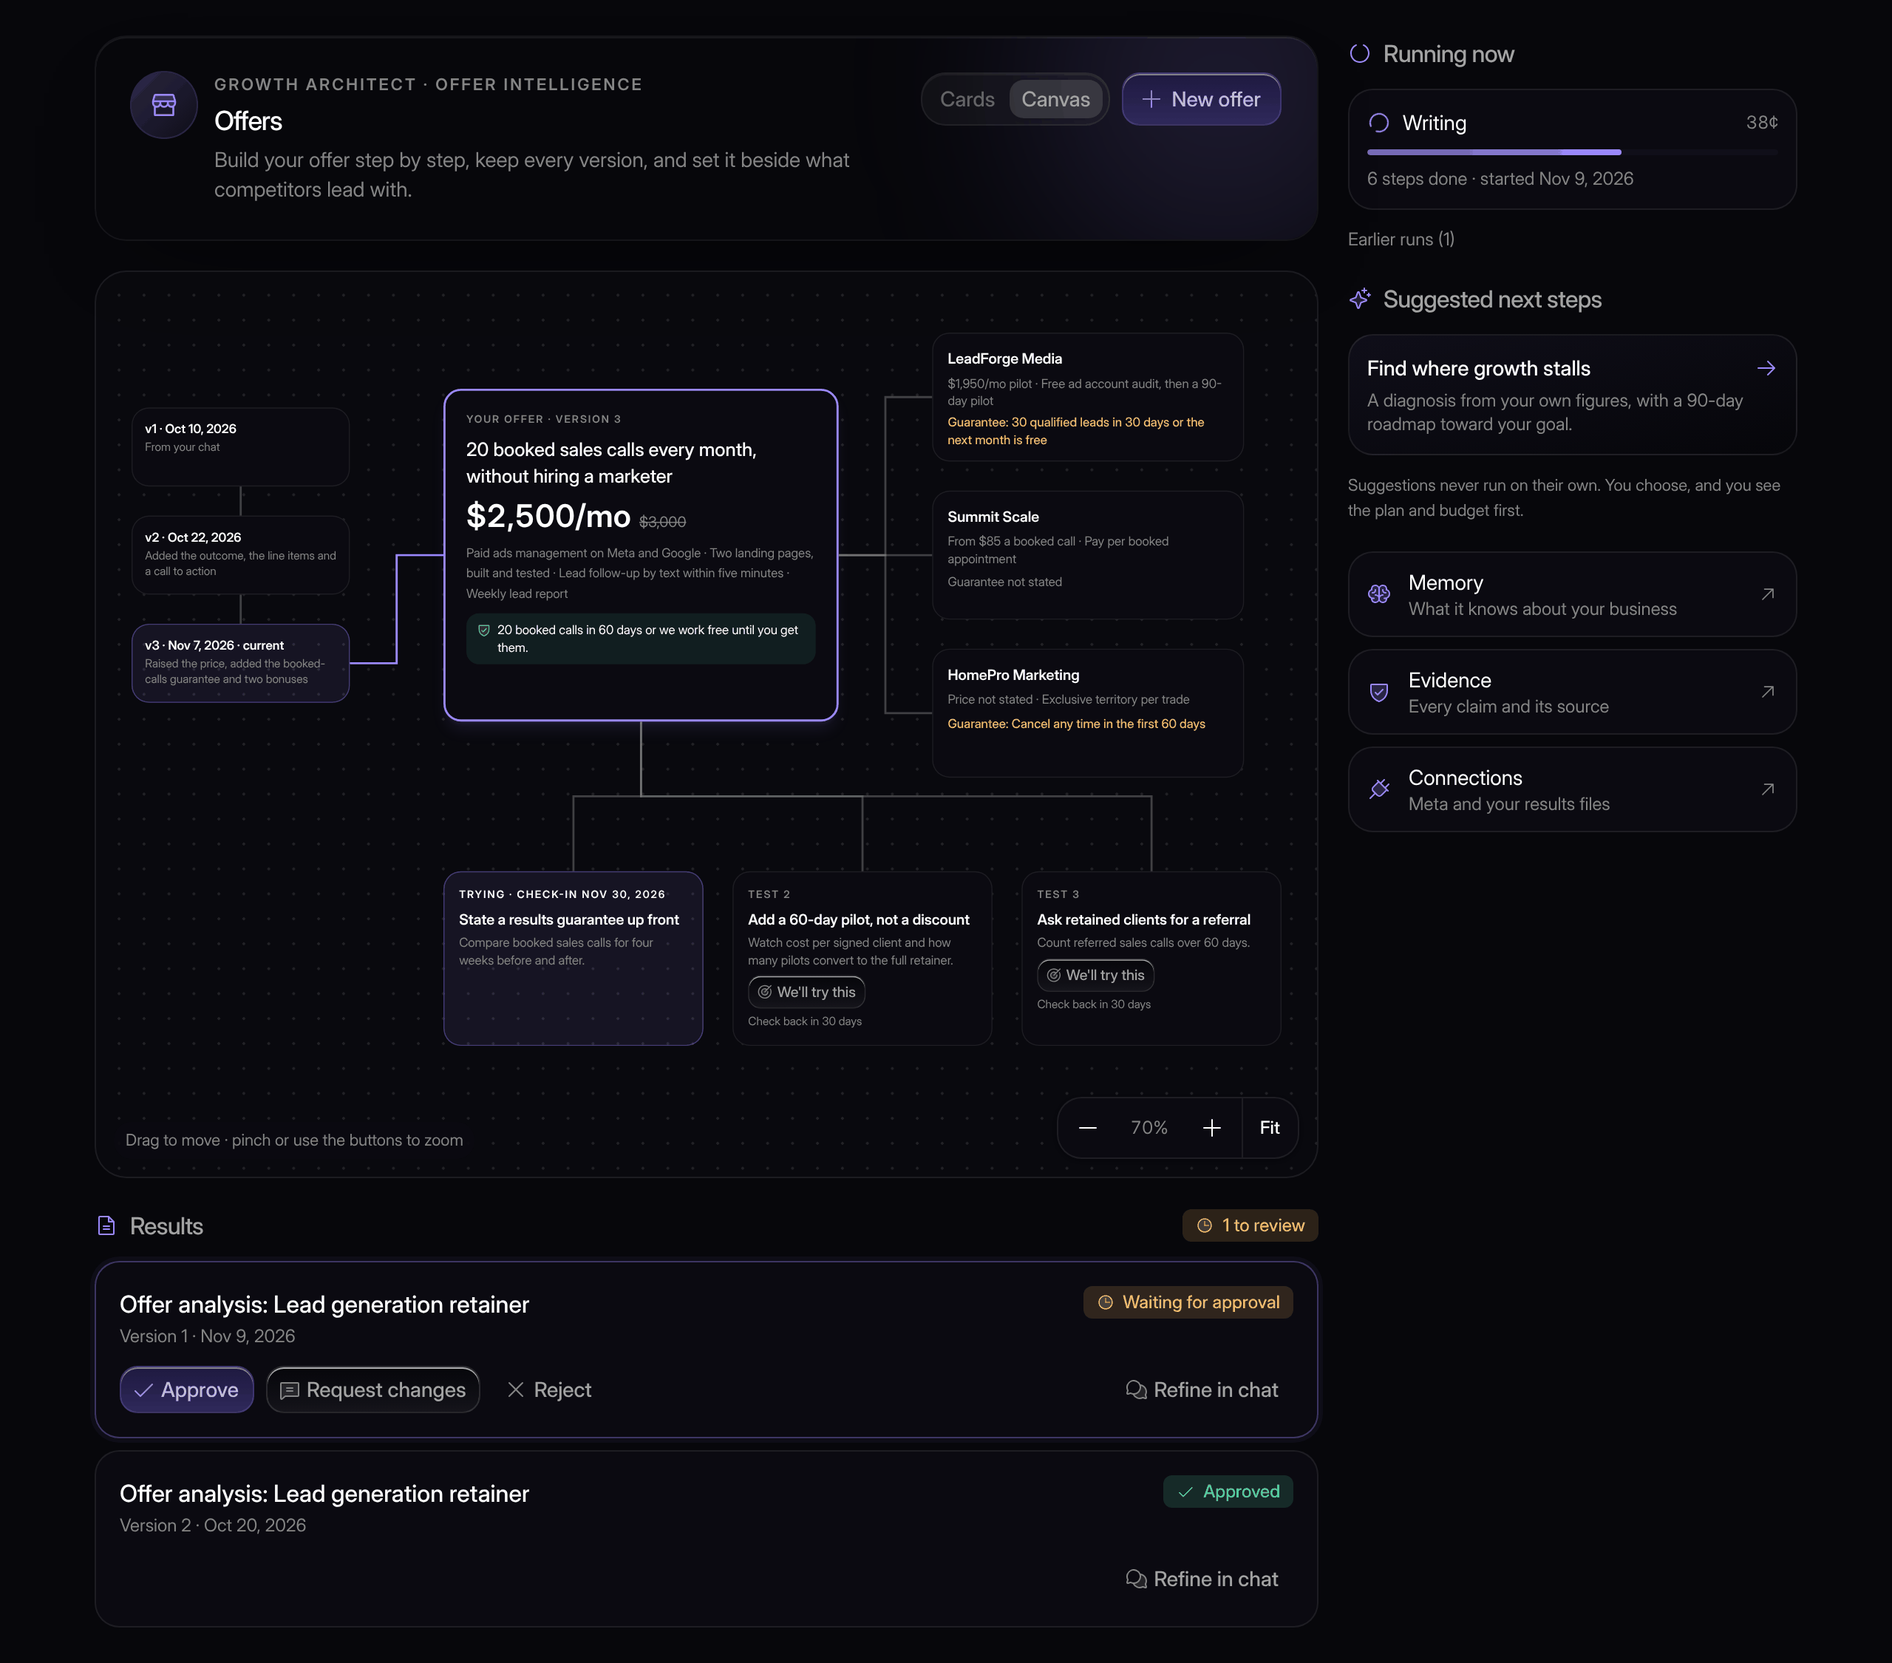
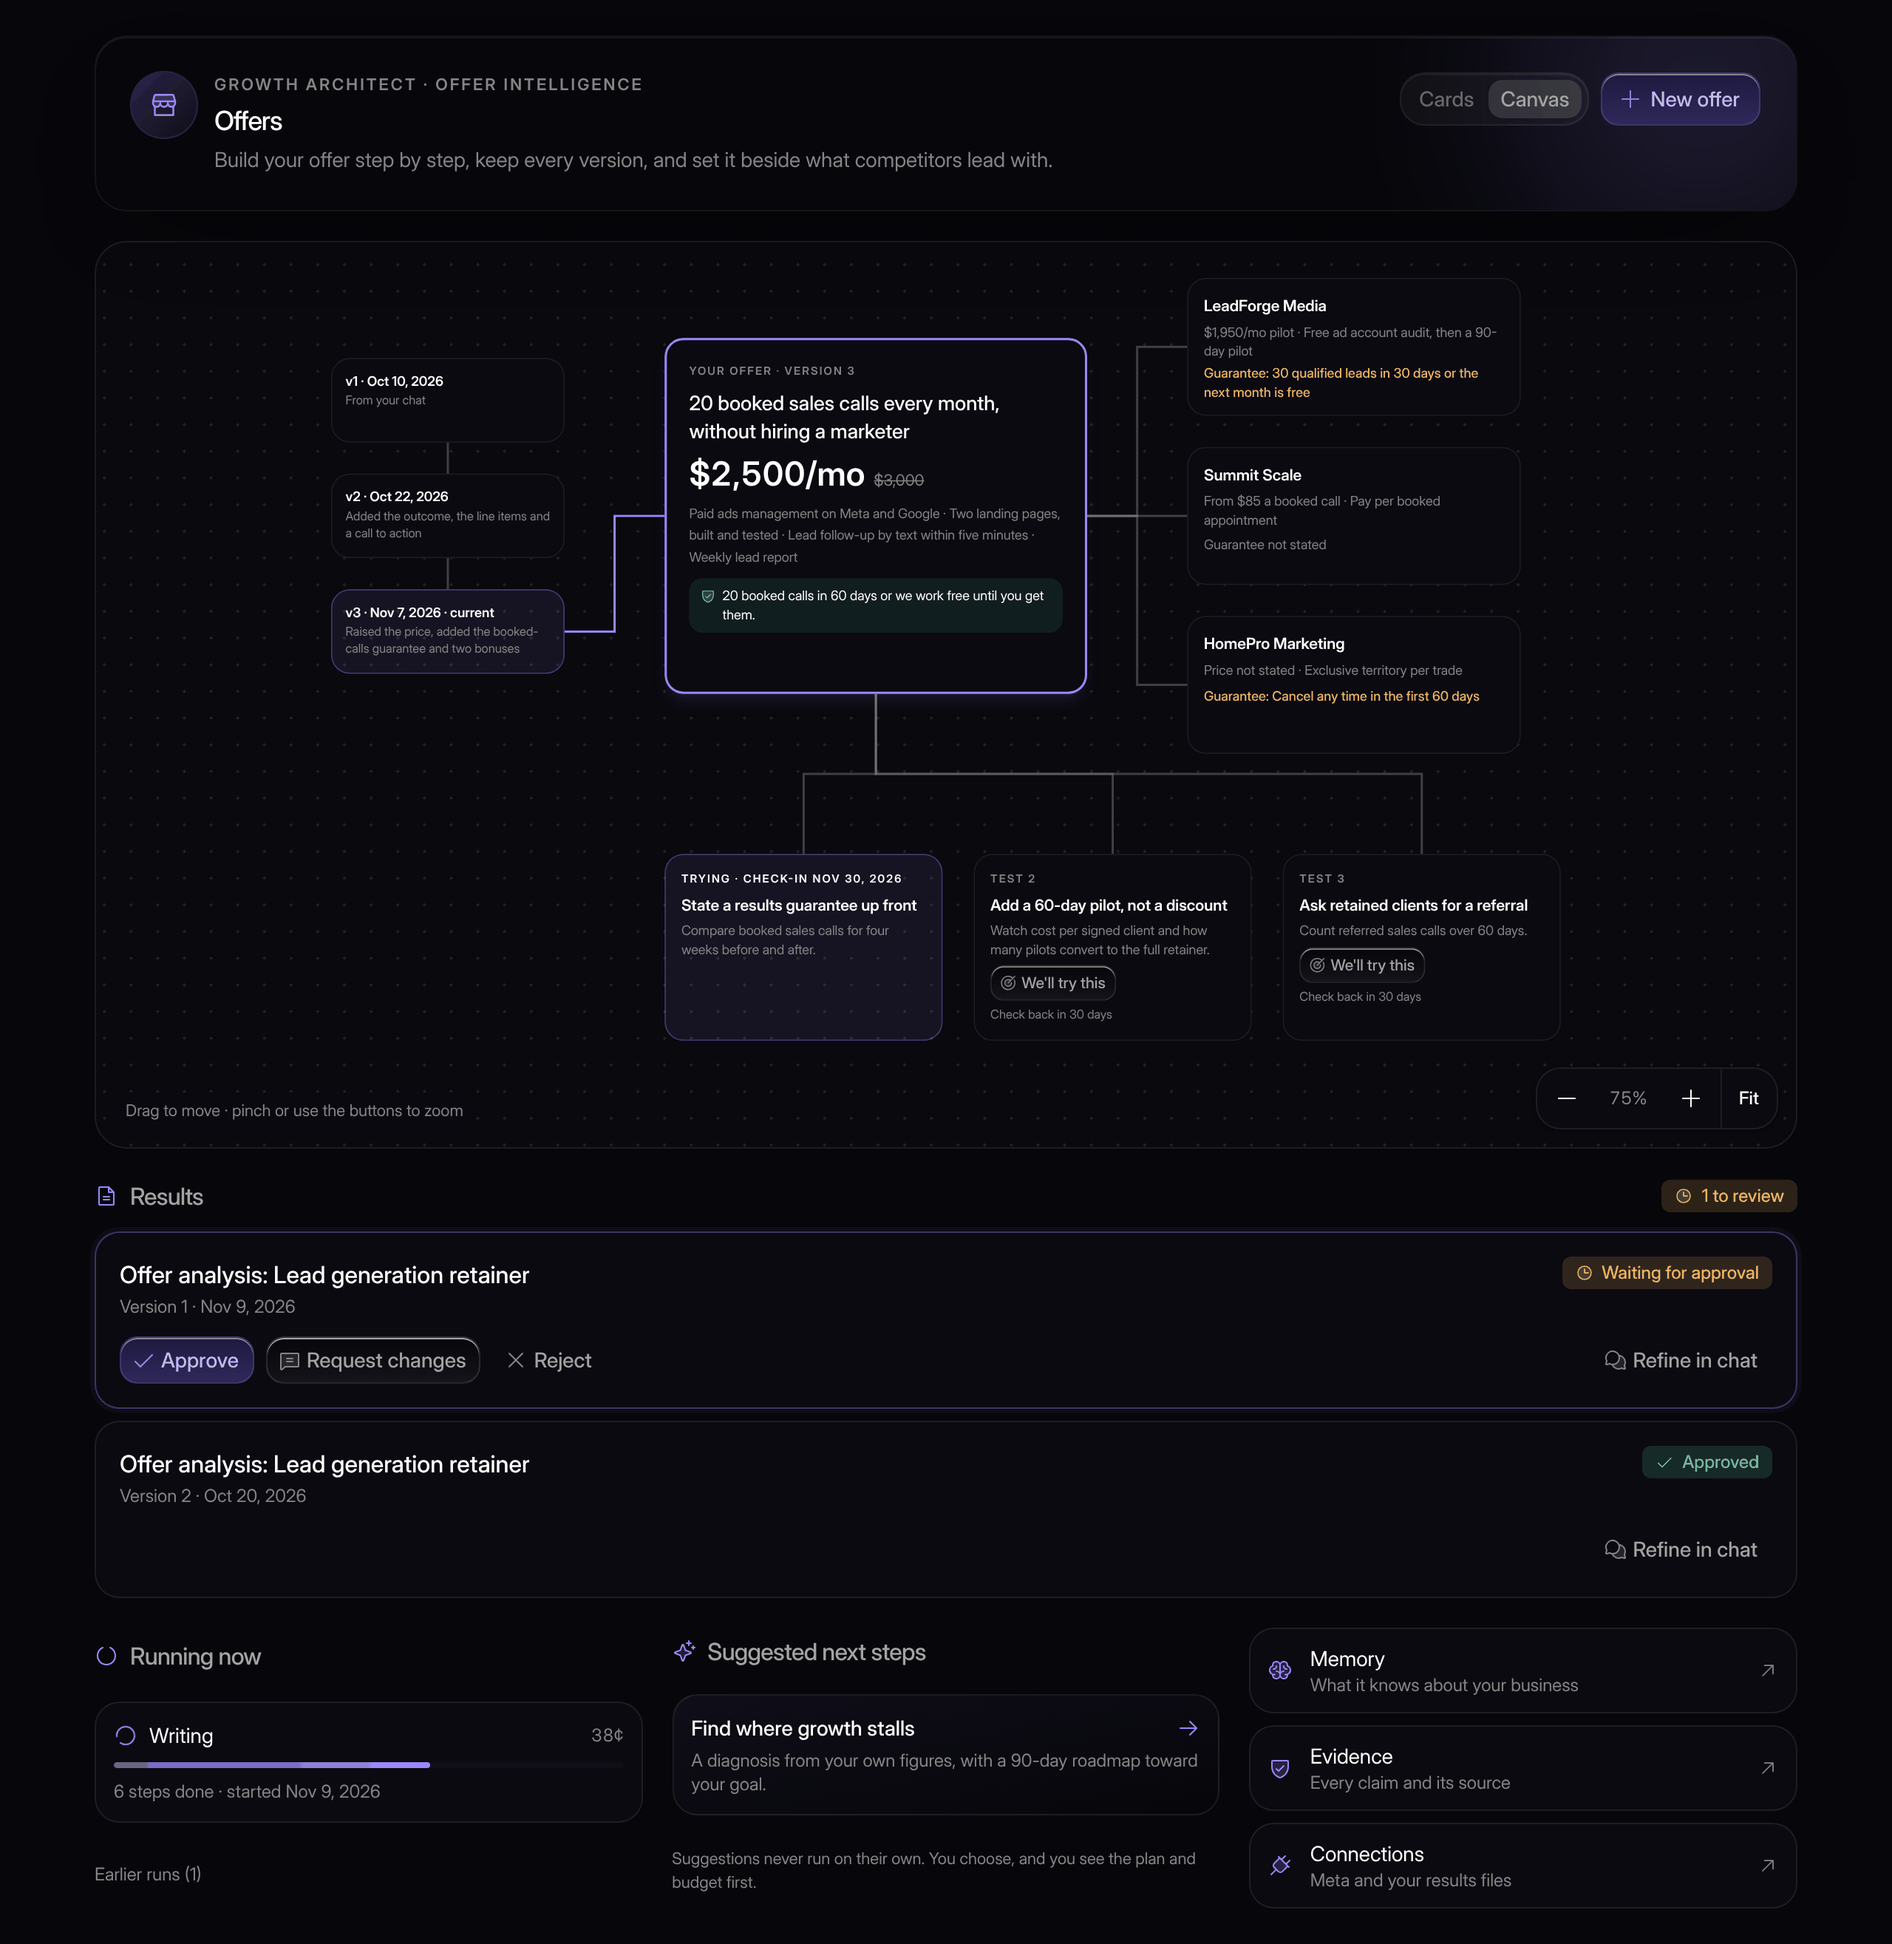
Offers canvas takes the full width
In Canvas view the board spans the page; running jobs, suggestions and
the shared links move underneath, as on Diagnostics.

Claude-Session: https://claude.ai/code/session_01BiDhVKxocb5NjSyLdJBgWr

diff --git a/src/components/work/offers-tab.tsx b/src/components/work/offers-tab.tsx
@@ -351,49 +351,59 @@ export function OffersTabView(props: OffersTabProps) {
   const building = openNew || Boolean(props.initialBuilder);
   // The canvas shows a saved offer; building one always happens in Cards.
   const canvas = view === "canvas" && props.card !== null && !building;
+  const hero = (
+    <WorkHero
+      icon={Store}
+      eyebrow="Growth Architect · Offer Intelligence"
+      title="Offers"
+      promise="Build your offer step by step, keep every version, and set it beside what competitors lead with."
+      action={
+        <>
+          {props.card ? <ViewSwitch view={view} onChange={setView} /> : null}
+          {editor ? (
+            <Button
+              onClick={() => {
+                setOpenNew(true);
+                setBuilderKey((value) => value + 1);
+              }}
+            >
+              <Plus aria-hidden className="size-4" /> New offer
+            </Button>
+          ) : null}
+        </>
+      }
+    />
+  );
+  const results = <ResultsList results={tab.results} actions={review} editor={editor} empty="Offer analyses appear here for you to review." refineHref={(row) => refineLink(base, "offer-intelligence", { kind: "asset", id: row.id, title: row.title })} />;
+  const rail = (
+    <>
+      <RunningNow running={tab.running} finished={tab.finished} />
+      <SuggestedNext suggestions={tab.suggestions} hrefFor={(row) => suggestionHref(base, row)} />
+      <SharedLinks base={base} />
+    </>
+  );
+  // The canvas takes the full width: the board needs the room. What sat beside it moves underneath.
+  if (canvas && props.card) {
+    return (
+      <div className="grid min-w-0 gap-5">
+        {hero}
+        <OffersCanvas card={props.card} analysis={props.analysis} decisions={props.decisions} tryActions={props.tryActions} editor={editor} />
+        {results}
+        <aside className="grid min-w-0 content-start gap-5 md:grid-cols-3">{rail}</aside>
+      </div>
+    );
+  }
   return (
     <WorkLayout
       main={
         <>
-          <WorkHero
-            icon={Store}
-            eyebrow="Growth Architect · Offer Intelligence"
-            title="Offers"
-            promise="Build your offer step by step, keep every version, and set it beside what competitors lead with."
-            action={
-              <>
-                {props.card ? <ViewSwitch view={view} onChange={setView} /> : null}
-                {editor ? (
-                  <Button
-                    onClick={() => {
-                      setOpenNew(true);
-                      setBuilderKey((value) => value + 1);
-                    }}
-                  >
-                    <Plus aria-hidden className="size-4" /> New offer
-                  </Button>
-                ) : null}
-              </>
-            }
-          />
-          {canvas && props.card ? (
-            <OffersCanvas card={props.card} analysis={props.analysis} decisions={props.decisions} tryActions={props.tryActions} editor={editor} />
-          ) : (
-            <>
-              <CardsPanel key={builderKey} {...props} initialBuilder={openNew ? { mode: "new" } : props.initialBuilder} onBuilderClosed={() => setOpenNew(false)} />
-              <AnalysisPanel {...props} />
-            </>
-          )}
-          <ResultsList results={tab.results} actions={review} editor={editor} empty="Offer analyses appear here for you to review." refineHref={(row) => refineLink(base, "offer-intelligence", { kind: "asset", id: row.id, title: row.title })} />
+          {hero}
+          <CardsPanel key={builderKey} {...props} initialBuilder={openNew ? { mode: "new" } : props.initialBuilder} onBuilderClosed={() => setOpenNew(false)} />
+          <AnalysisPanel {...props} />
+          {results}
         </>
       }
-      rail={
-        <>
-          <RunningNow running={tab.running} finished={tab.finished} />
-          <SuggestedNext suggestions={tab.suggestions} hrefFor={(row) => suggestionHref(base, row)} />
-          <SharedLinks base={base} />
-        </>
-      }
+      rail={rail}
     />
   );
 }
